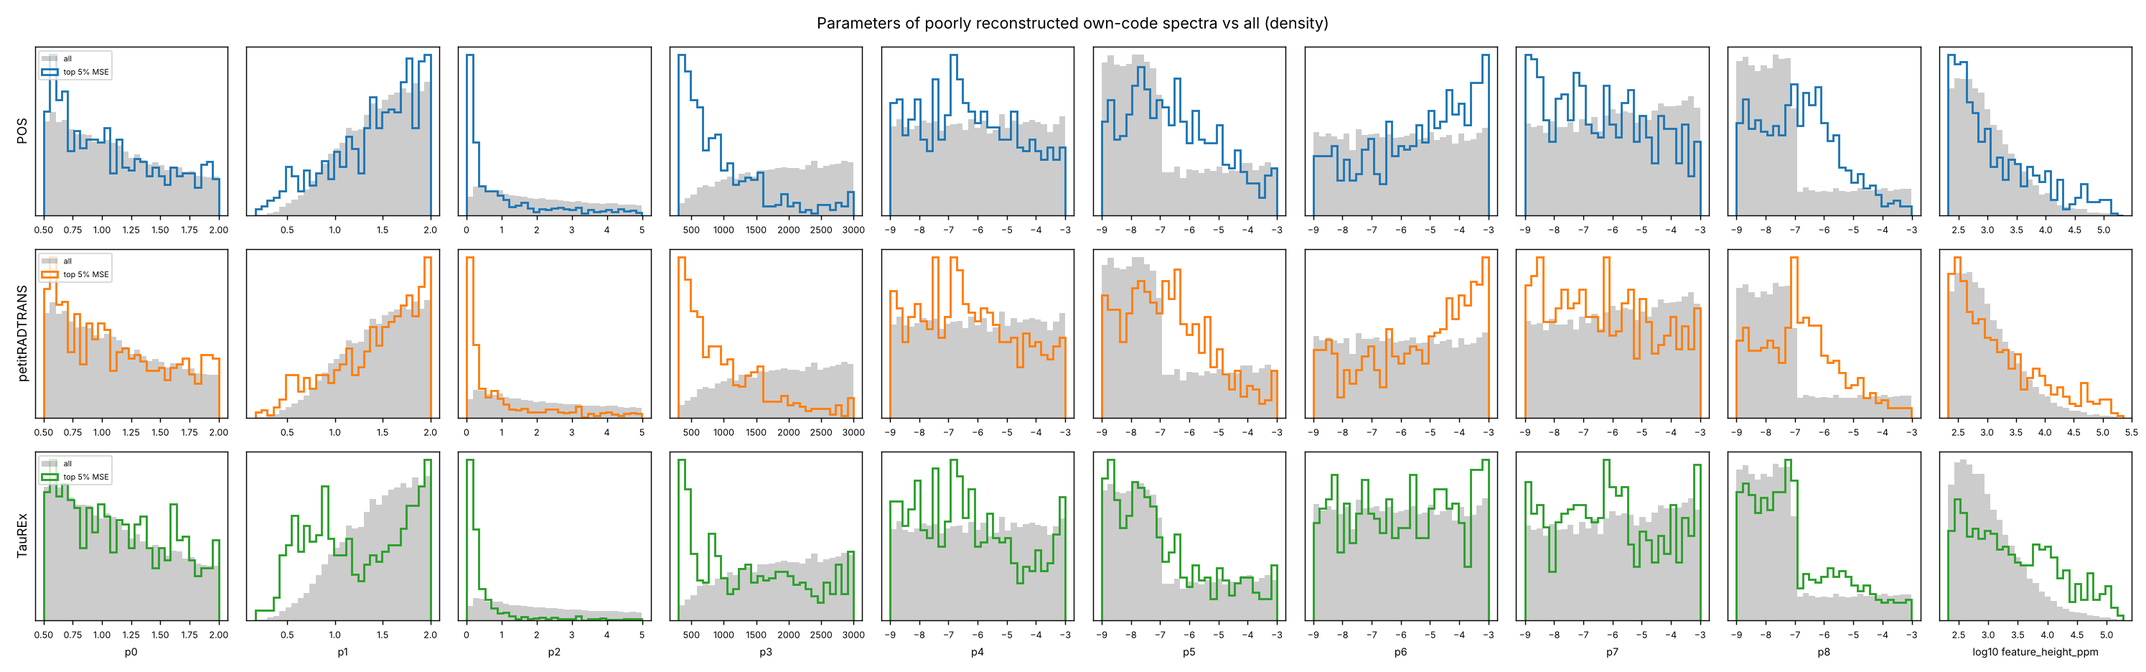
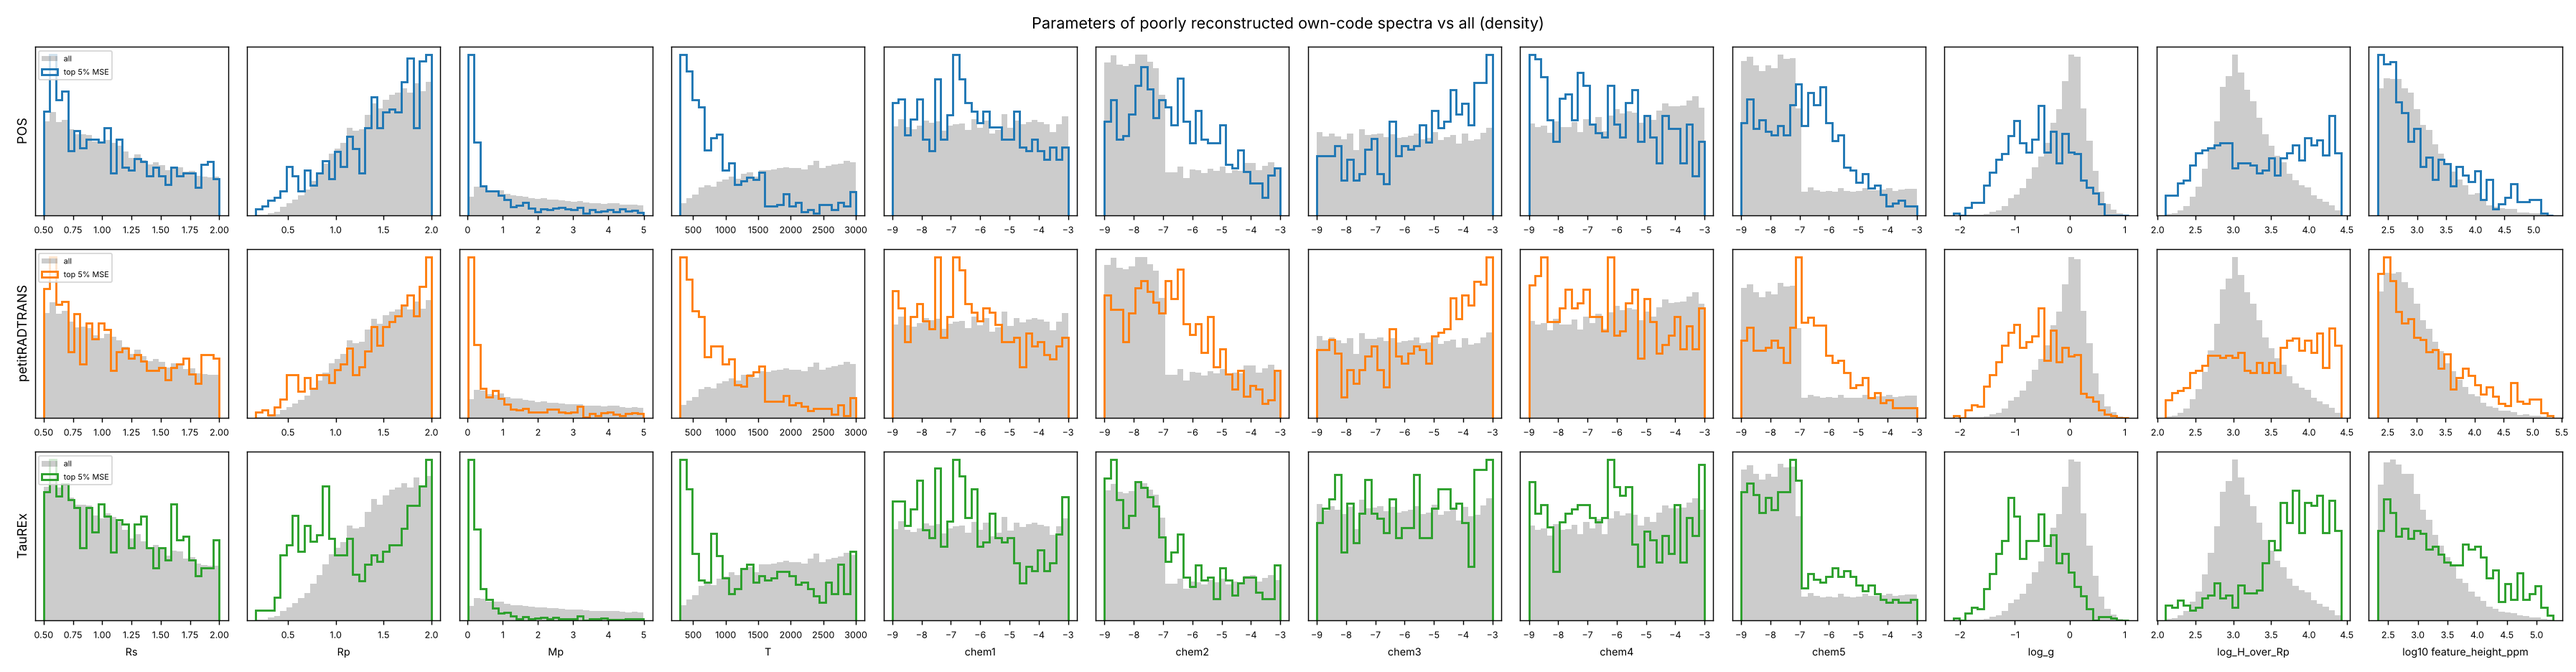
Label parameters (Rs, Rp, Mp, T, chems), add gravity/scale-height and T-log g map to poor-reconstruction analysis
Claude-Session: https://claude.ai/code/session_01UNkke3wTeEhZK3VnZzKWJJ

Changed region(s): [[0.0, 0.031, 0.9953, 0.6506], [0.0, 0.6816, 0.9953, 0.9915], [0.5288, 0.9605, 0.5599, 0.9915]]

diff --git a/poor_recon.py b/poor_recon.py
@@ -7,7 +7,11 @@ parameter distributions with the rest, and checks whether the same planets are h
 
 Usage:
     python poor_recon.py
-    python poor_recon.py --top-frac 0.1 --param-names Rp Mp X T H2O CH4 CO CO2 NH3
+    python poor_recon.py --top-frac 0.1 --param-names Rs Rp Mp T H2O CH4 CO CO2 NH3
+
+Besides the 9 parameters (Rs, Rp, Mp, T, then 5 log abundances) it also checks derived
+quantities: log10 surface gravity Mp/Rp^2 (Jupiter units), log10 T*Rp/Mp (proportional to
+scale height over planet radius, H/Rp, at fixed mean molecular weight) and the feature height.
 """
 
 import argparse
@@ -32,7 +36,8 @@ def parse_args():
     p.add_argument("--datasets", nargs="+", default=list(DATASETS), choices=DATASETS)
     p.add_argument("--seed", type=int, default=42, help="split seed used by anomaly.py")
     p.add_argument("--top-frac", type=float, default=0.05)
-    p.add_argument("--param-names", nargs=9, default=[f"p{i}" for i in range(9)])
+    p.add_argument("--param-names", nargs=9,
+                   default=["Rs", "Rp", "Mp", "T", "chem1", "chem2", "chem3", "chem4", "chem5"])
     return p.parse_args()
 
 
@@ -50,6 +55,15 @@ def auc(neg, pos):
     """P(value for a random poorly reconstructed planet > value for a random other planet)."""
     r = rank(np.concatenate([neg, pos])) + 1
     return float((r[len(neg):].sum() - len(pos) * (len(pos) + 1) / 2) / (len(neg) * len(pos)))
+
+
+DERIVED = ["log_g", "log_H_over_Rp", "feature_height_ppm"]
+
+
+def features(params, fh):
+    """Parameters plus derived columns (DERIVED). Columns 1-3 of params are Rp, Mp, T."""
+    rp, mp, t = params[:, 1], params[:, 2], params[:, 3]
+    return np.column_stack([params, np.log10(mp / rp**2), np.log10(t * rp / mp), fh])
 
 
 def main():
@@ -72,7 +86,7 @@ def main():
 
     # Feature height (ppm) of each code's own raw spectrum, as an extra explanatory variable.
     fh = {d: feature_height(load_raw(args.data_dir, d)[0][index]) * 1e6 for d in args.datasets}
-    columns = names + ["feature_height_ppm"]
+    columns = names + DERIVED
 
     n_top = int(round(args.top_frac * len(index)))
     poor = {d: np.argsort(errors[d])[::-1][:n_top] for d in args.datasets}
@@ -80,7 +94,7 @@ def main():
     for d in args.datasets:
         is_poor = np.zeros(len(index), bool)
         is_poor[poor[d]] = True
-        feats = np.column_stack([params, fh[d]])
+        feats = features(params, fh[d])
         res = {}
         for j, c in enumerate(columns):
             v = feats[:, j]
@@ -122,6 +136,7 @@ def main():
 
     plot_hists(args, columns, params, fh, poor, out / "poor_recon_params.png")
     plot_scatter(args, results, columns, params, fh, errors, out / "poor_recon_scatter.png")
+    plot_t_logg(args, params, fh, poor, out / "poor_recon_T_logg.png")
     print(f"\nsaved to {out}/")
 
 
@@ -129,7 +144,7 @@ def plot_hists(args, columns, params, fh, poor, path):
     n = len(columns)
     fig, axes = plt.subplots(len(args.datasets), n, figsize=(2.3 * n, 2.4 * len(args.datasets)), squeeze=False)
     for i, d in enumerate(args.datasets):
-        feats = np.column_stack([params, fh[d]])
+        feats = features(params, fh[d])
         for j, c in enumerate(columns):
             ax = axes[i, j]
             v = feats[:, j]
@@ -158,7 +173,7 @@ def plot_scatter(args, results, columns, params, fh, errors, path):
     for i, d in enumerate(args.datasets):
         res = results["codes"][d]["params"]
         top = sorted(columns, key=lambda c: -abs(res[c]["auc_poor_vs_rest"] - 0.5))[:2]
-        feats = dict(zip(columns, np.column_stack([params, fh[d]]).T))
+        feats = dict(zip(columns, features(params, fh[d]).T))
         for ax, c in zip(axes[i], top):
             v = feats[c]
             ax.scatter(v, np.log10(errors[d]), s=2, alpha=0.25, color=f"C{i}", rasterized=True)
@@ -168,6 +183,25 @@ def plot_scatter(args, results, columns, params, fh, errors, path):
             ax.set(xlabel=c, ylabel="log10 MSE", title=f"{LABELS[d]}: AUC={res[c]['auc_poor_vs_rest']:.2f}")
     fig.tight_layout()
     fig.savefig(path, dpi=130)
+    plt.close(fig)
+
+
+def plot_t_logg(args, params, fh, poor, path):
+    """Fraction of planets that are poorly reconstructed, binned in T and log g."""
+    feats = features(params, fh[args.datasets[0]])
+    t, logg = feats[:, 3], feats[:, 9]
+    tb = np.linspace(t.min(), t.max(), 13)
+    gb = np.linspace(np.percentile(logg, 0.5), np.percentile(logg, 99.5), 13)
+    total, _, _ = np.histogram2d(t, logg, bins=[tb, gb])
+    fig, axes = plt.subplots(1, len(args.datasets), figsize=(5 * len(args.datasets), 4.2), squeeze=False)
+    for ax, d in zip(axes[0], args.datasets):
+        bad, _, _ = np.histogram2d(t[poor[d]], logg[poor[d]], bins=[tb, gb])
+        frac = np.where(total >= 20, bad / np.maximum(total, 1), np.nan)
+        im = ax.pcolormesh(tb, gb, frac.T, cmap="magma_r", vmin=0, vmax=0.4)
+        ax.set(xlabel="T", title=LABELS[d])
+    axes[0, 0].set_ylabel("log10 g  [log10 Mp/Rp^2, Jupiter units]")
+    fig.colorbar(im, ax=axes[0].tolist(), label=f"fraction in worst {args.top_frac:.0%}")
+    fig.savefig(path, dpi=130, bbox_inches="tight")
     plt.close(fig)
 
 

diff --git a/README.md b/README.md
@@ -230,29 +230,39 @@ For each model, the fraction of its own test spectra flagged is about 5% at p95 
 
 For each code, the selected anomaly model scores that code's own val + test spectra (13,166 planets, none used in training). The top 5% by reconstruction MSE (658 planets) count as "poorly reconstructed".
 
-The AUC column is the probability that a poorly reconstructed planet has a higher parameter value than a random other planet. 0.5 means no difference, and values far from 0.5 mean a strong link. The parameter names are not stored in the data, so they are labelled p0–p8.
+The parameters are Rs, Rp, Mp, T and 5 log abundances (chem1–chem5, in file column order). Three derived quantities are also checked:
+- log g = log10(Mp/Rp²), in Jupiter units.
+- log H/Rp = log10(T·Rp/Mp), which is proportional to scale height over planet radius at fixed mean molecular weight.
+- feature height.
 
-| parameter (range) | POS AUC | petitRADTRANS AUC | TauREx AUC | median: poor vs rest (POS) |
+The AUC columns give the probability that a poorly reconstructed planet has a higher value than a random other planet. 0.5 means no difference, and values far from 0.5 mean a strong link.
+
+| quantity | POS AUC | petitRADTRANS AUC | TauREx AUC | median poor vs rest (POS) |
 |---|---|---|---|---|
-| p3 (300–3000) | **0.16** | **0.17** | 0.33 | 768 vs 1940 |
-| p2 (0.01–5) | **0.24** | **0.23** | **0.11** | 0.39 vs 1.94 |
-| p8 (−9 to −3) | 0.62 | 0.63 | 0.55 | −6.9 vs −7.7 |
-| p6 (−9 to −3) | 0.60 | 0.60 | 0.52 | −5.1 vs −6.1 |
-| p5 (−9 to −3) | 0.58 | 0.55 | 0.50 | −6.7 vs −7.4 |
-| p1 (0.1–2) | 0.49 | 0.50 | 0.38 | 1.50 vs 1.50 |
-| p0, p4, p7 | 0.41–0.52 | 0.43–0.49 | 0.44–0.52 | |
+| T | **0.16** | **0.17** | 0.33 | 768 vs 1940 K |
+| Mp | **0.24** | **0.23** | **0.11** | 0.39 vs 1.94 |
+| log g | **0.24** | **0.22** | **0.17** | −0.58 vs −0.03 |
+| log H/Rp | 0.59 | 0.62 | **0.80** | 3.41 vs 3.12 |
+| chem5 | 0.62 | 0.63 | 0.55 | −6.9 vs −7.7 |
+| chem3 | 0.60 | 0.60 | 0.52 | −5.1 vs −6.1 |
+| chem2 | 0.58 | 0.55 | 0.50 | −6.7 vs −7.4 |
+| Rp | 0.49 | 0.50 | 0.38 | 1.50 vs 1.50 |
+| Rs, chem1, chem4 | 0.41–0.47 | 0.43–0.49 | 0.44–0.52 | |
 | feature height | 0.52 | 0.55 | 0.66 | 800 vs 793 ppm |
 
-- **Low p3 and low p2 are the strongest markers in every code.** Most poorly reconstructed spectra have p3 below about 1000 and/or p2 below about 0.5. Reconstruction error rises steeply as p2 approaches 0.
-- **POS and petitRADTRANS:** p3 is the strongest marker. The poor planets also tend to have higher p5, p6 and p8, which places them in the part of the prior where p5 and p8 are above −7. p5 and p8 are anti-correlated with p3 in the parameter prior.
-- **TauREx:** p2 dominates (AUC 0.11), and low p1 matters too.
+`poor_recon_T_logg.png` shows the fraction of poorly reconstructed planets in bins of T and log g. Two regions stand out:
+- **Cool planets (T below about 600 K), at any gravity.** In POS and petitRADTRANS, more than 40% of these planets are in the worst 5%. They also tend to have higher chem2 and chem5, the two abundances that are anti-correlated with T in the prior.
+- **Very low-gravity, puffy planets (log g below about −0.9, so large H/Rp), at any temperature.** This region is the dominant one for TauREx, where low Mp and low Rp both matter.
+
+Other findings:
 - **Feature height is not the cause.** Poorly reconstructed spectra are not those close to the 210 ppm cut.
 - **The same planets are hard in every code.**
   - POS and petitRADTRANS share 479 of their 658 poor planets; 33 would be expected by chance. The Spearman correlation of their per-planet errors is 0.92.
   - POS and TauREx share 331, and petitRADTRANS and TauREx share 349.
   - 291 planets are in the poor set of all three codes.
-  - So the difficulty comes from the planet's parameters, not from the code. This low-p3 / low-p2 region is what causes the overlap between normal and anomalous errors in the anomaly histograms.
+  - So the difficulty comes from the planet's parameters, not from the code.
+- **Both regions are sparsely sampled in the training set.** Cool planets are partly removed by the feature-height cut, and very low gravity is the edge of the Mp range. This region is what causes the overlap between normal and anomalous errors in the anomaly histograms.
 
 ```
-python poor_recon.py --top-frac 0.05 --param-names p0 p1 p2 p3 p4 p5 p6 p7 p8
+python poor_recon.py --top-frac 0.05
 ```
